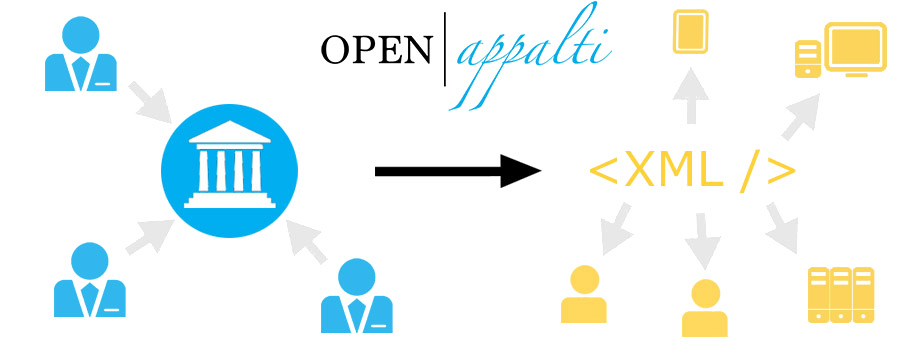
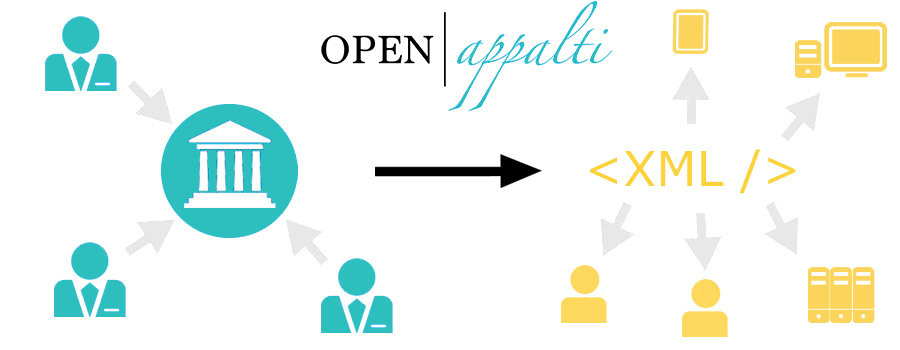
change home page colors, make table records linkable

diff --git a/src/components/Home/Contracts/data.js b/src/components/Home/Contracts/data.js
@@ -1,11 +1,12 @@
+import React from "react";
 import { euroFormat } from "../../../Util/helpFunction/tableColumnFormatter";
-
+import Link from "../../../UI/link/tableLink";
 // lotti - Richest table
 
 export const richest = [
   {
     id: 1,
-    name: "APPALTO PULIZIA ARENILE DEMANIALE E MANUTENZIO...",
+    name: <Link>APPALTO PULIZIA ARENILE DEMANIALE E MANUTENZIO...</Link>,
     amount: 3441765,
     payed: 5027315,
     start: "01/01/2015",
@@ -13,7 +14,7 @@ export const richest = [
   },
   {
     id: 2,
-    name: "Appalto servizio refezione scolastica - determ...",
+    name: <Link>Appalto servizio refezione scolastica - determ...</Link>,
     amount: 3109425,
     payed: 1355245,
     start: "01/09/2016",
@@ -21,7 +22,7 @@ export const richest = [
   },
   {
     id: 3,
-    name: "PROCEDURA APERTA PER L'AFFIDAMENTO DELLA GESTI..",
+    name: <Link>PROCEDURA APERTA PER L'AFFIDAMENTO DELLA GESTI..</Link>,
     amount: 2840070,
     payed: 1562309,
     start: "01/09/2017",
@@ -29,7 +30,7 @@ export const richest = [
   },
   {
     id: 4,
-    name: "FORNITURA ORDINARIA FARMACI, PARAFARMACI E ALT...",
+    name: <Link>FORNITURA ORDINARIA FARMACI, PARAFARMACI E ALT...</Link>,
     amount: 2400000,
     payed: 2644586,
     start: "01/09/2015",
@@ -37,7 +38,7 @@ export const richest = [
   },
   {
     id: 5,
-    name: "PROCEDURA APERTA ART.60 DEL D.LGS N.50/2016 PE...",
+    name: <Link>PROCEDURA APERTA ART.60 DEL D.LGS N.50/2016 PE...</Link>,
     amount: 1932913,
     payed: 271779,
     start: "01/02/2017",
@@ -80,31 +81,31 @@ export const richestColumns = [
 export const waitingStart = [
   {
     id: 1,
-    name: "Rinnovo canoni di manutenzione software",
+    name: <Link>Rinnovo canoni di manutenzione software</Link>,
     amount: 32181,
     year: "2016"
   },
   {
     id: 2,
-    name: "Rinnovo canoni di manutenzione",
+    name: <Link>Rinnovo canoni di manutenzione</Link>,
     amount: 22985,
     year: "2016"
   },
   {
     id: 3,
-    name: "Acquisto n.2 server",
+    name: <Link>Acquisto n.2 server</Link>,
     amount: 22883,
     year: "2016"
   },
   {
     id: 4,
-    name: "AFFIDAMENTO DI SERVIZI TECNICI PROFESSIONALI RE...",
+    name: <Link>AFFIDAMENTO DI SERVIZI TECNICI PROFESSIONALI RE...</Link>,
     amount: 20685,
     year: "2018"
   },
   {
     id: 5,
-    name: "Rinnovo canoni di manutenzione software",
+    name: <Link>Rinnovo canoni di manutenzione software</Link>,
     amount: 18370,
     year: "2016"
   }
@@ -136,31 +137,31 @@ export const waitingStartColumns = [
 export const notCompleted = [
   {
     id: 1,
-    name: "NOLEGGIO TERMINALI MOBILI",
+    name: <Link>NOLEGGIO TERMINALI MOBILI</Link>,
     amount: 32,
     dateStart: "17/12/2012"
   },
   {
     id: 2,
-    name: "SPESA PER SERVIZIO DI NOTIFICA ATTI DA INFRAZIO...",
+    name: <Link>SPESA PER SERVIZIO DI NOTIFICA ATTI DA INFRAZIO...</Link>,
     amount: 8450,
     dateStart: "25/01/2013"
   },
   {
     id: 3,
-    name: "SPESA PER PONTE RADIO E BANCHE DATI ACI-PRA E M...",
+    name: <Link>SPESA PER PONTE RADIO E BANCHE DATI ACI-PRA E M...</Link>,
     amount: 10000,
     dateStart: "05/02/2013"
   },
   {
     id: 4,
-    name: "IMPEGNO DI SPESA PER MONITORAGGI DEI CAMPI MAGN...",
+    name: <Link>IMPEGNO DI SPESA PER MONITORAGGI DEI CAMPI MAGN...</Link>,
     amount: 12397,
     dateStart: "08/03/2013"
   },
   {
     id: 5,
-    name: "MANUTENZIONE PARCOMETRI",
+    name: <Link>MANUTENZIONE PARCOMETRI</Link>,
     amount: 2459,
     dateStart: "09/04/2013"
   }
@@ -192,17 +193,17 @@ export const notCompletedColumns = [
 export const statusPie = [
   {
     id: 1,
-    name: 'Completed',
+    name: "Completed",
     value: 794
   },
   {
     id: 2,
-    name: 'Waiting to start',
+    name: "Waiting to start",
     value: 115
   },
   {
     id: 3,
-    name: 'Not completed',
+    name: "Not completed",
     value: 91
   }
 ];

diff --git a/src/components/Home/Companies/data.js b/src/components/Home/Companies/data.js
@@ -1,31 +1,32 @@
+import React from 'react'
 import { percentFormat, euroFormat } from "../../../Util/helpFunction/tableColumnFormatter";
-
+import Link from '../../../UI/link/tableLink'
 // Aziende - table
 
 export const contractsWin = [
   {
     id: 1,
-    name: "GAIA GARDEN DI MAGI GALLUZZI A.",
+    name: <Link>GAIA GARDEN DI MAGI GALLUZZI A.</Link>,
     contracts: 115
   },
   {
     id: 2,
-    name: "ELIOTECNICA DI ARAMINI ISABELLA E C",
+    name: <Link>ELIOTECNICA DI ARAMINI ISABELLA E C</Link>,
     contracts: 111
   },
   {
     id: 3,
-    name: "COOPERATIVA SOCIALE PRO.GE.I.L.",
+    name: <Link>COOPERATIVA SOCIALE PRO.GE.I.L.</Link>,
     contracts: 104
   },
   {
     id: 4,
-    name: "COVIDIEN ITALIA SPA",
+    name: <Link>COVIDIEN ITALIA SPA</Link>,
     contracts: 98
   },
   {
     id: 5,
-    name: "MEDICAL SPA",
+    name: <Link>MEDICAL SPA</Link>,
     contracts: 95
   }
 ];
@@ -38,7 +39,6 @@ export const contractsColumns = [
   {
     dataField: "name",
     text: "Company name",
-    style: { color: "#3366cc" }
   },
   {
     dataField: "contracts",
@@ -48,7 +48,7 @@ export const contractsColumns = [
 
 // Più ricchi - pieChart
 
-export const amount = [
+export const amountPie = [
   {
     id: 1,
     name: "GlaxoSmithKline S.p.A.",
@@ -81,6 +81,39 @@ export const amount = [
   }
 ];
 
+export const amount = [
+  {
+    id: 1,
+    name: <Link>GlaxoSmithKline S.p.A.</Link>,
+    value: 59409293
+  },
+  {
+    id: 2,
+    name: <Link>ELIOTECNICA DI ARAMINI ISABELLA E C</Link>,
+    value: 24485075
+  },
+  {
+    id: 3,
+    name: <Link>CONSORZIO ARTIGIANI ROMAGNOLO SOC. COOP.VA</Link>,
+    value: 24092352
+  },
+  {
+    id: 4,
+    name: <Link>DUOMO GPA SRL, VIALE SARCA 195, 20126 MILANO (MI)</Link>,
+    value: 17858000
+  },
+  {
+    id: 5,
+    name: <Link>COOPERATIVA SOCIALE PRO.GE.I.L.</Link>,
+    value: 16631279
+  },
+  {
+    id: 6,
+    name: <Link>Other companies</Link>,
+    value: 301835000
+  }
+];
+
 export const amountColumns = [
   {
     dataField: "id",
@@ -103,31 +136,31 @@ export const amountColumns = [
 export const successRate = [
   {
     id: 1,
-    name: "NUOVA FERRAMENTA SRL",
+    name: <Link>NUOVA FERRAMENTA SRL</Link>,
     rating: 100,
     selected: 93
   },
   {
     id: 2,
-    name: "MOSCHINI IMPIANTI DI MOSCHINI SIMON",
+    name: <Link>MOSCHINI IMPIANTI DI MOSCHINI SIMON</Link>,
     rating: 100,
     selected: 78
   },
   {
     id: 3,
-    name: "MARCHE ELETTRO FORNITURE AN SRL",
+    name: <Link>MARCHE ELETTRO FORNITURE AN SRL</Link>,
     rating: 100,
     selected: 71
   },
   {
     id: 4,
-    name: "IMP. EDILE FRANCESCHINI FRANCESCO",
+    name: <Link>IMP. EDILE FRANCESCHINI FRANCESCO</Link>,
     rating: 100,
     selected: 67
   },
   {
     id: 5,
-    name: "INFISSI DI COGNINI SIMONE",
+    name: <Link>INFISSI DI COGNINI SIMONE</Link>,
     rating: 100,
     selected: 60
   }

diff --git a/src/components/Home/Companies/charts.js b/src/components/Home/Companies/charts.js
@@ -2,13 +2,13 @@ import React from "react";
 import { Cell } from "recharts";
 import BarChart from "../../../UI/charts/barChart";
 import PieChart from "../../../UI/charts/pieChart";
-import { contractsWin, amount } from "./data";
+import { contractsWin, amountPie } from "./data";
 
 const COLORS = [
   "#dd7766",
   "#0088FE",
-  "#00C49F",
-  "#FFBB28",
+  "#2dbfbe",
+  "#fad548",
   "#FF8042",
   "#8884d8"
 ];
@@ -20,13 +20,13 @@ export const awardedChart = (
     data={contractsWin}
     xAxis="name"
     barDataKey="contracts"
-    barColor="#3366cc"
+    barColor="#2dbfbe"
   />
 );
 
 export const amountChart = (
-  <PieChart data={amount} pieDataKey="value" outerRadius={150}>
-    {amount.map((entry, index) => (
+  <PieChart data={amountPie} pieDataKey="value" outerRadius={150}>
+    {amountPie.map((entry, index) => (
       <Cell key={index} fill={COLORS[index % COLORS.length]} />
     ))}
   </PieChart>

diff --git a/src/UI/link/tableLink.js b/src/UI/link/tableLink.js
@@ -1,0 +1,20 @@
+import React from 'react'
+import styled from 'styled-components'
+
+const Link = styled.a`
+    color: #2dbfbe;
+    &:hover {
+        color: #2298c6;
+    }
+`;
+
+const tableLink = props => {
+    const {children} = props;
+  return (
+    <Link href='/'>
+        {children}
+    </Link>
+)
+  }
+
+export default tableLink

diff --git a/src/components/Home/ContentSummary/countIcon.js b/src/components/Home/ContentSummary/countIcon.js
@@ -5,7 +5,7 @@ const Icon = styled.div`
   width: 4.5rem;
   height: 2.8rem;
   position: relative;
-  background-color: ${props => props.link ? "#2dbfbe" : props.text ? "#c3bb5e" : props.bg};
+  background-color: ${props => props.link ? "#2dbfbe" : props.text ? "#fad548" : props.bg};
   border-radius: 5px;
   text-align: center;
   &:before {

diff --git a/src/components/Home/Contracts/charts.js b/src/components/Home/Contracts/charts.js
@@ -4,9 +4,9 @@ import PieChart from "../../../UI/charts/pieChart";
 import { statusPie } from "./data";
 
 const COLORS = [
-  "#0088FE",
-  "#00C49F",
-  "#FFBB28",
+  "#2dbfbe",
+  "#0088FE",  
+  "#fad548",
 ];
 
 export const statusChart = (

diff --git a/src/UI/button/linkButton.js b/src/UI/button/linkButton.js
@@ -1,6 +1,7 @@
 import React from "react";
 import styled from "styled-components";
 import { Row, Col } from "reactstrap";
+import './linkButton.css'
 
 const Link = styled.a`
     letter-spacing: .1rem;

diff --git a/src/UI/button/linkButton.css b/src/UI/button/linkButton.css
@@ -1,0 +1,5 @@
+.btn-info {
+    color: #fff;
+    background-color: #2dbfbe !important;
+    border-color: #2dbfbe !important;
+}
